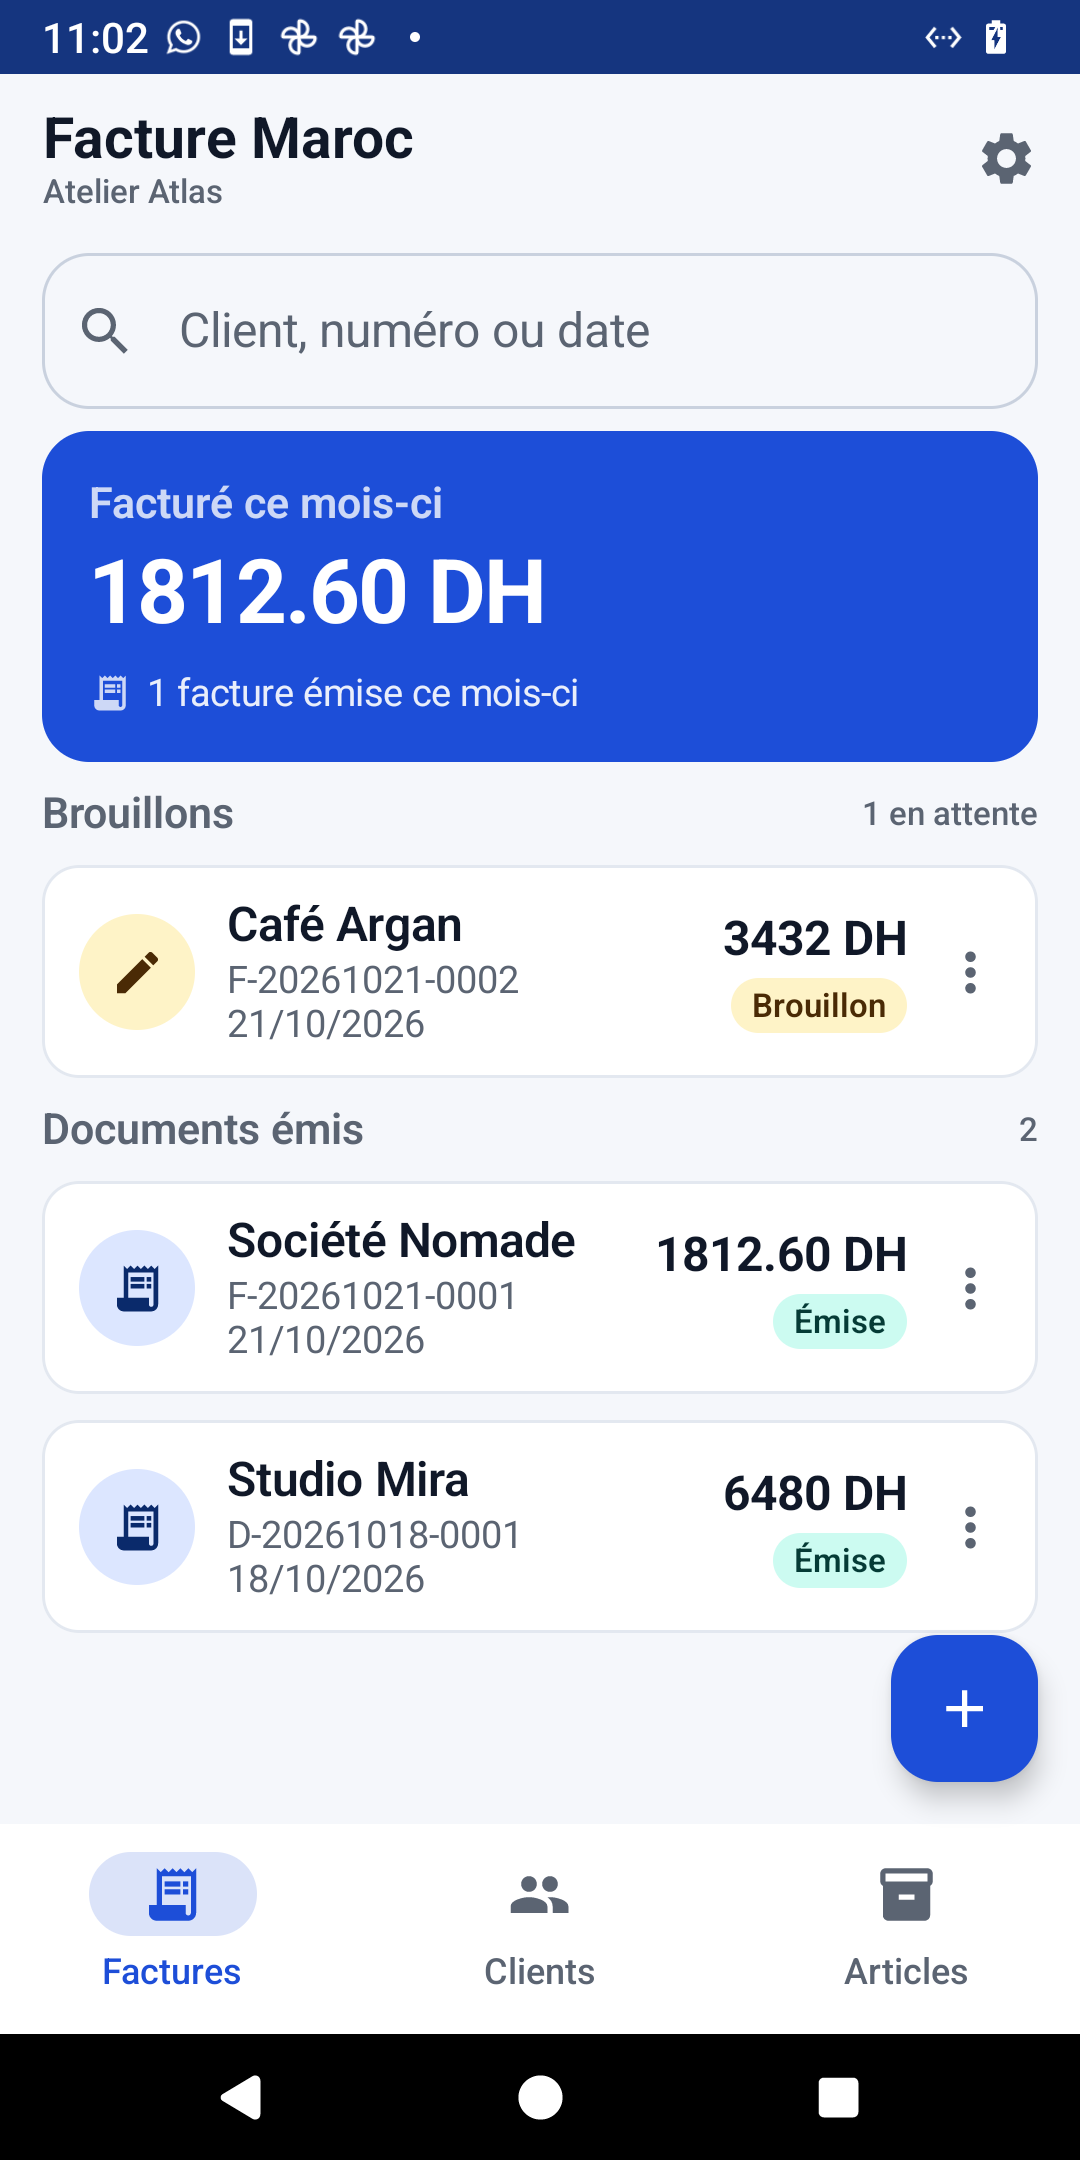
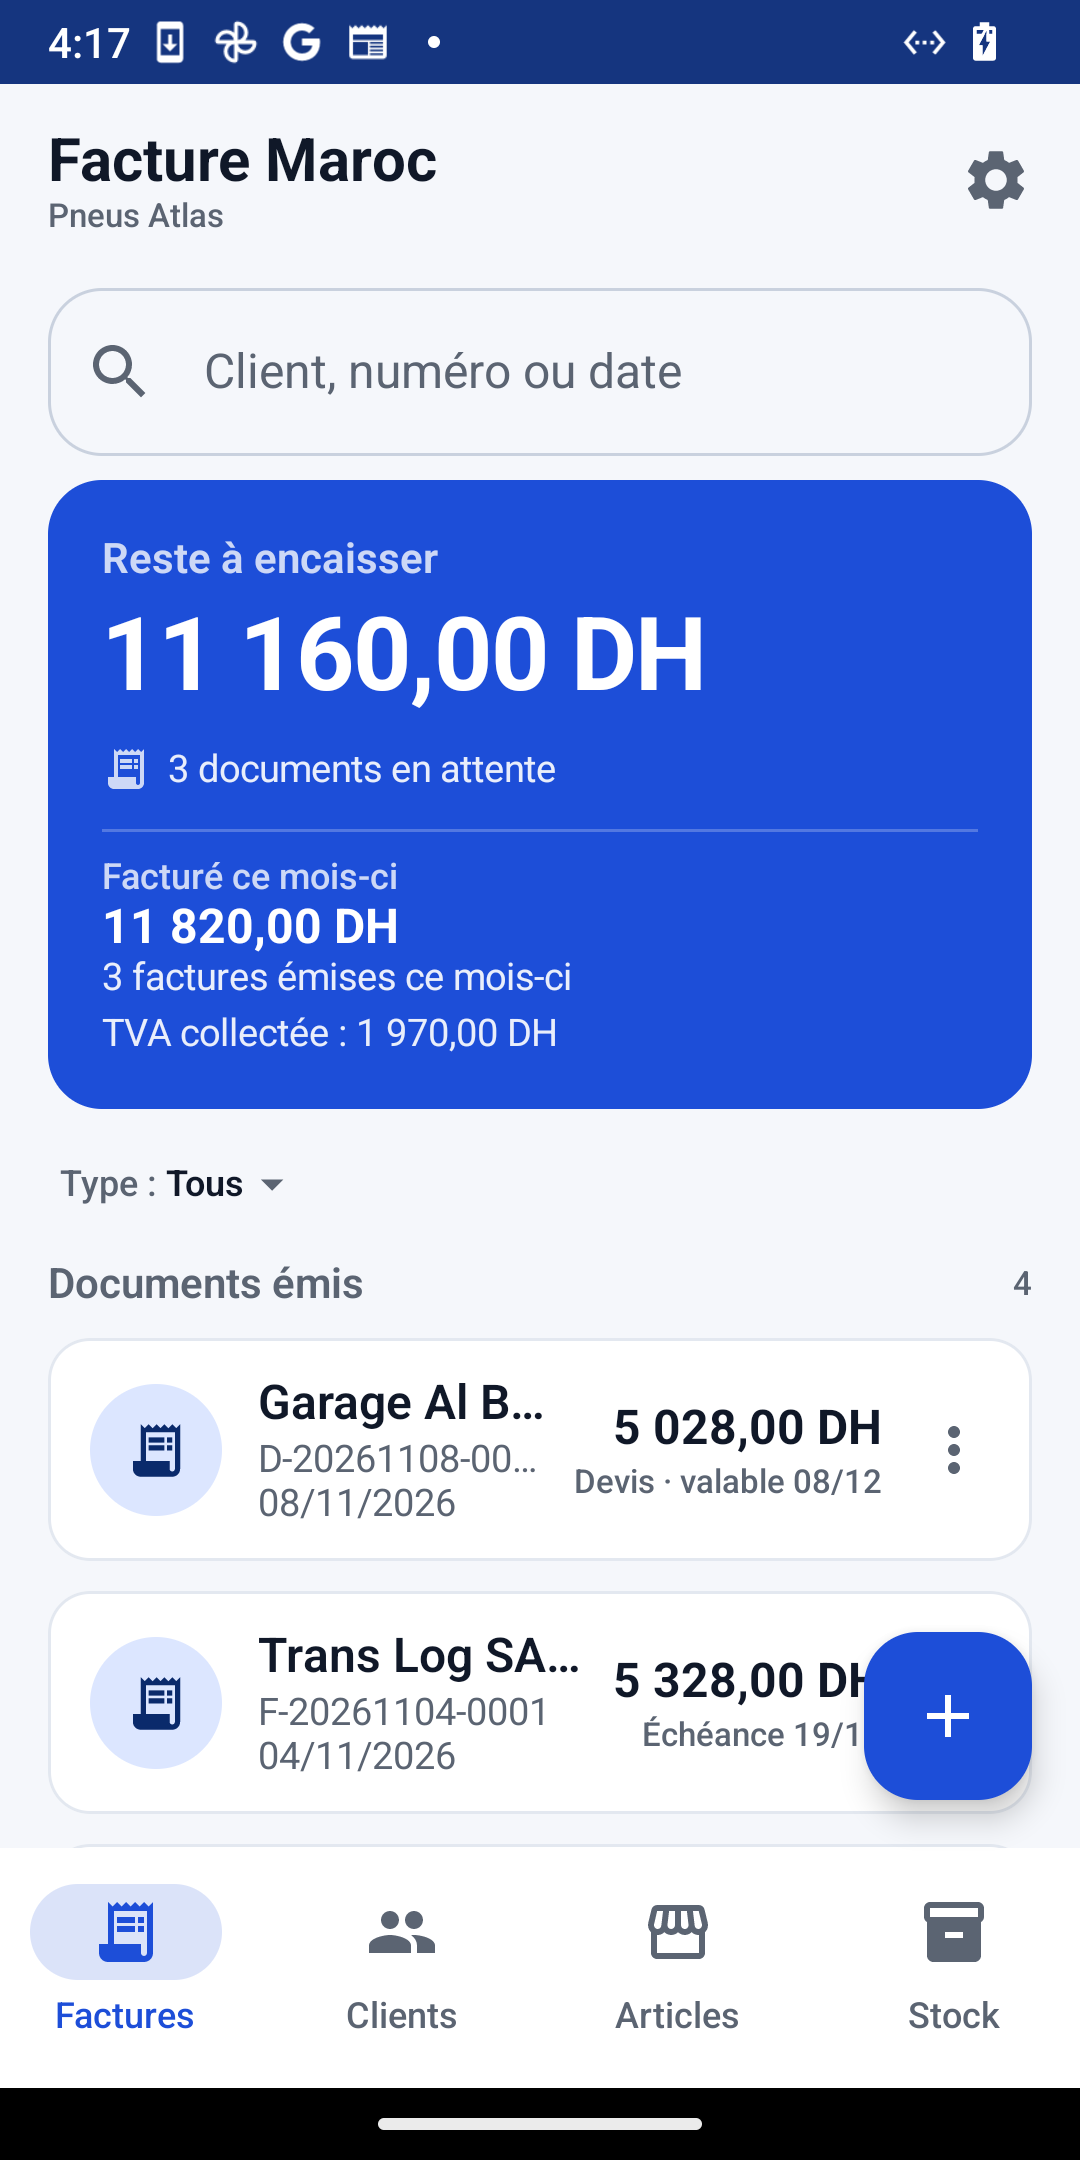
Play : prépare la 0.12.0 (versionCode 23)
Version finale pour le Play Store, avec la fiche et les visuels à jour.

- listing-fr.md : quatre onglets, filtre par type de document, fiche client
  (solde, retard, appel/WhatsApp), liste du stock avec Reçu/Sorti/Corriger et
  le réglage de déduction à l'émission.
- Screenshots remplacées : sept captures 1080 × 2160 prises sur la 0.12.0
  (factures, clients, fiche client, rayons, dossier, stock, réglages) ; les
  anciennes montraient l'interface d'avant la refonte.
- UPLOAD.md : version, taille et SHA-256 de l'AAB, et le texte « Nouveautés »
  prêt à coller.
- README et docs/status.md : 0.12.0 prête, 0.11.1 toujours en ligne.

diff --git a/play_store/UPLOAD.md b/play_store/UPLOAD.md
@@ -9,13 +9,13 @@ et les réponses aux formulaires.
 | Élément | Valeur |
 |---|---|
 | Paquet | `com.yassine.facturemaroc` |
-| Version | `0.11.1` (`versionCode` 18) — corrections de l'audit du 10 novembre |
+| Version | `0.12.0` (`versionCode` 23) — refonte de l'interface : listes, stock, identifiants clients |
 | Cible | API 36, minimum API 26 |
 | Permissions | `CAMERA` seule, facultative |
 | Modèles de document | 6 (Classique, Moderne, Facture Maroc, Épuré, Bandeau, Ticket 80 mm) |
 | Fichier | `app/build/outputs/bundle/release/app-release.aab` |
-| Taille | AAB 0.11.1 : 15 734 173 octets (~15,0 Mo) ; APK release : 24 252 499 octets (~23,1 Mo) |
[1 lines of base64/hex data omitted]
+| Taille | AAB 0.12.0 : 15 931 094 octets (~15,2 Mo) ; APK release : 24 301 795 octets (~23,2 Mo) |
[1 lines of base64/hex data omitted]
 | Signature | clé de `~/.android/tyre-inventory.jks` (alias `inventory`) |
 
 L'AAB se reconstruit avec `./gradlew :app:bundleRelease`. **Ne jamais téléverser
@@ -35,9 +35,10 @@ un APK** : Play n'accepte que les App Bundles pour une nouvelle application.
 - **Description courte** et **description complète** : copier depuis
   `listing-fr.md` (bloc de citation, sections « Description complète »).
 - **Icône** : `icon-512.png`. **Bannière** : `feature-graphic-1024x500.png`.
-- **Captures d'écran téléphone** : les quatre de `screenshots/`
-  (`01-factures`, `02-builder`, `03-clients`, `04-articles`). Play exige au
-  moins deux captures 16:9 ou 9:16 ; les nôtres sont en 1080 × 2160.
+- **Captures d'écran téléphone** : les sept de `screenshots/`
+  (`01-factures`, `02-clients`, `03-client`, `04-articles`, `05-articles-dossier`,
+  `06-stock`, `07-reglages`), toutes en 1080 × 2160 et prises sur la version
+  0.12.0. Play exige au moins deux captures 9:16.
 - **Catégorie** : Business. **Coordonnées** : e-mail de contact obligatoire
   (public et vérifié par Google) — à saisir, il ne peut pas être deviné.
 - **Politique de confidentialité** : `https://factureapp.ma/privacy.html`
@@ -99,3 +100,17 @@ d'envoi). À faire juste après le premier téléversement réussi.
 - **Production** : téléverser l'AAB, décrire la version, envoyer en revue.
   Comptez de quelques heures à quelques jours ; une première application est
   relue plus lentement.
+
+## 7. Nouveautés (texte à coller dans Play, 480 signes)
+
+```
+Listes repensées : vos clients sont rangés par urgence (en retard, doit de
+l'argent, à jour), votre catalogue par rayons, et vos factures se filtrent par
+type (devis, bon de commande, avoir…).
+
+Le stock devient une liste : quantité réelle, valeur, et « Reçu / Sorti /
+Corriger » sur chaque ligne. Un réglage permet de ne plus déduire le stock à
+l'émission.
+
+Renommer un client ne détache plus ses factures.
+```

diff --git a/play_store/listing-fr.md b/play_store/listing-fr.md
@@ -20,13 +20,18 @@ depuis le 30 octobre 2026 ; seule l’adresse e-mail de contact reste à saisir.
 Facture Maroc est l’application de facturation conçue pour les commerçants, artisans et prestataires marocains. Créez une facture, un devis, un bon de commande, un reçu ou un relevé client en quelques gestes, puis partagez un PDF propre et professionnel.
 
 TOUT AU MÊME ENDROIT
-• Trois onglets : Factures, Clients, Articles.
+• Quatre onglets : Factures, Clients, Articles, Stock.
+• Filtre par type de document : facture, devis, bon de commande, ticket, avoir, proforma, acompte, régularisation, simplifiée, export — brouillons compris.
 • Vos coordonnées et mentions légales (ICE, IF, RC, patente, CNSS) enregistrées une fois.
 • Vos clients réutilisables en un tap, avec leur adresse et leur ICE.
 • Votre catalogue d’articles et de services : dossiers, code-barres, prix d’achat, seuil de réapprovisionnement, paliers de prix par quantité et attributs libres (référence, marque, dimensions…).
+• Fiche client avec solde dû, retard, documents et relevé ; appel ou message WhatsApp en un tap.
 
 STOCK ET MARGE
+• Liste du stock : chaque article compté, sa quantité réelle, sa valeur et ce qu’il faut réapprovisionner en tête.
+• Reçu, sorti et correction sur la ligne même, écrits dans le journal.
 • Journal des mouvements et historique par article : chaque vente, avoir, achat et correction est conservé.
+• Réglage : déduire ou non le stock à l’émission d’une facture.
 • Inventaire : saisie du comptage réel, écart motivé et résumé de la valeur.
 • Bons de réception fournisseurs qui entrent le stock et mettent à jour le prix d’achat.
 • Valorisation au coût moyen pondéré (défaut) ou FIFO, réglable.

diff --git a/README.md b/README.md
@@ -5,8 +5,8 @@ Factures, devis, bons de commande, tickets, avoirs, proformas, acomptes,
 régularisations, factures simplifiées et factures à l'export — avec ICE, IF, RC,
 patente, CNSS, TVA, montants en toutes lettres et mode auto-entrepreneur.
 
-Aperçu **0.12.0-beta.4** (versionCode 22) · Android 8.0+ (minSdk 26) · Français.
-La version publiée sur le Play Store reste la **0.11.1** (versionCode 18).
+Version **0.12.0** (versionCode 23) · Android 8.0+ (minSdk 26) · Français.
+Sur le Play Store : **0.11.1** (versionCode 18) tant que la 0.12.0 n'y est pas téléversée.
 
 État du produit : [`docs/status.md`](docs/status.md) · Décisions :
 [`docs/decisions.md`](docs/decisions.md) · Checklist de version :

diff --git a/docs/status.md b/docs/status.md
@@ -6,8 +6,8 @@ answering from memory.
 
 | | |
 |---|---|
-| Version Play | **0.11.1** (versionCode 18) — 19 corrections d'audit |
-| Aperçu | **0.12.0-beta.4** (versionCode 22) — GitHub, parcourue sur Waydroid |
+| Version Play | **0.11.1** (versionCode 18) en ligne ; **0.12.0** (23) prête à téléverser |
+| Aperçu | **0.12.0-beta.4** (versionCode 22) — GitHub ; la 0.12.0 (23) est la même base pour le Play |
 | Last commit | Audit du 2026-11-10 : paiements, stockage, catalogue, rapports, avoirs, sauvegarde Android |
 | Branch | `master` (tag `v0.11.1` à poser après le build R8) |
 | Tests | **629 JVM**, **20 instrumented** (les deux suites vertes) |
